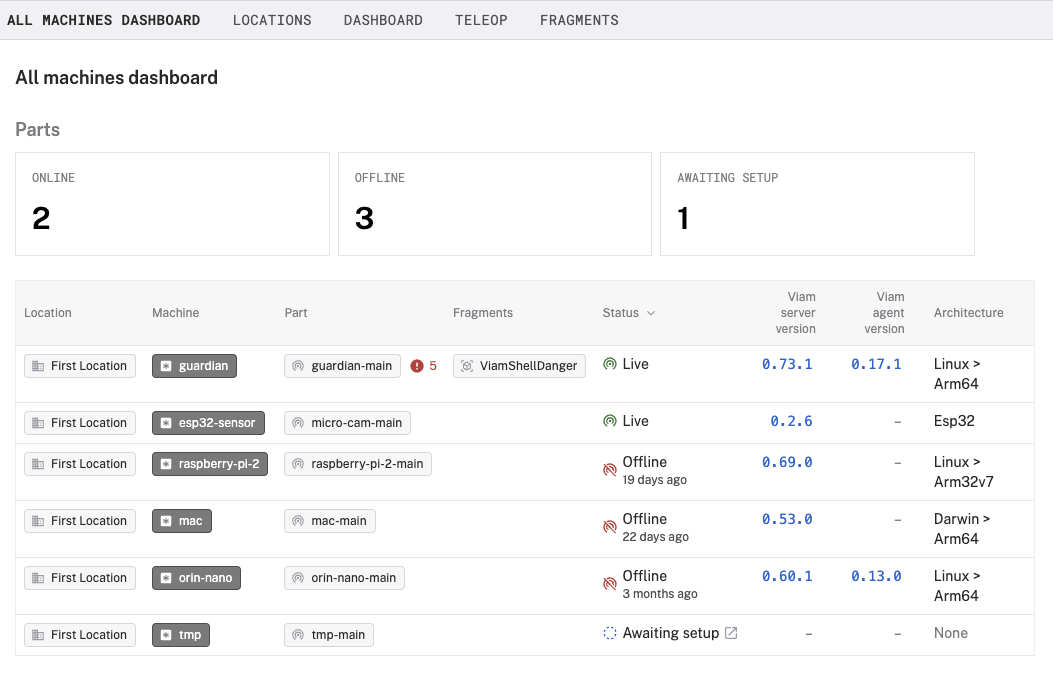
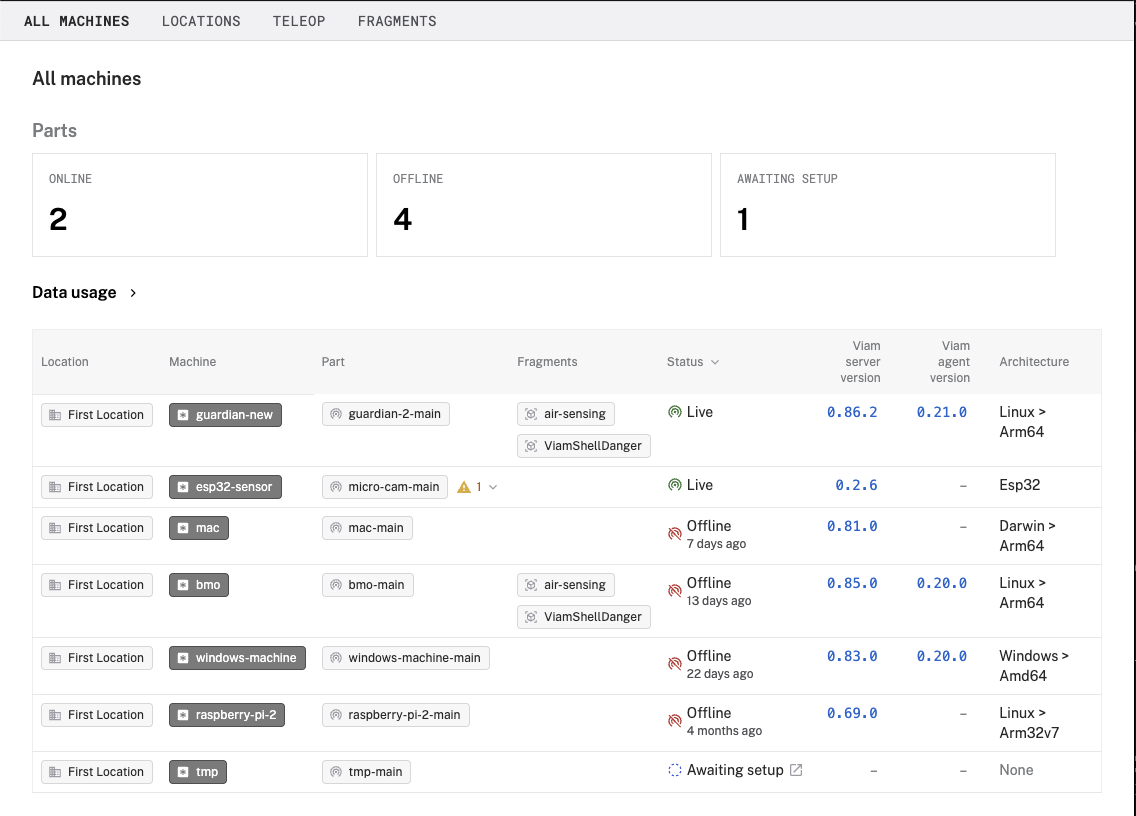
DOCS-4249: Update dashboard (#4534)

diff --git a/docs/manage/troubleshoot/monitor.md b/docs/manage/troubleshoot/monitor.md
@@ -13,13 +13,10 @@ You can view all machines in an organization from a dashboard and access each ma
 {{% tablestep number=1 %}}
 **Monitor your fleet's parts statuses and synced data**
 
-You can monitor your machines from your **FLEET**'s [**ALL MACHINES DASHBOARD** subtab](https://app.viam.com/fleet/machines).
+You can monitor your machines from your **FLEET**'s [**ALL MACHINES** subtab](https://app.viam.com/fleet/machines).
+You can also monitor the amount of binary and tabular data your fleet has synced in the last 48 hours from the same dashboard.
 
 {{< imgproc src="/fleet/dashboard.png" alt="Fleet dashboard showing the machine parts, location, status, architecture and more" style="width:800px" resize="1200x" class="imgzoom shadow" >}}
-
-You can also monitor the amount of binary and tabular data your fleet has synced in the last 48 hours from the **FLEET**'s [**DASHBOARD** subtab](https://app.viam.com/fleet/dashboard).
-
-{{<imgproc src="how-tos/manage-fleet/dashboard.png" resize="500x" declaredimensions=true alt="Fleet dashboard showing the machine parts and data sync overview" class="shadow">}}
 
 {{% /tablestep %}}
 {{% tablestep number=2 %}}
